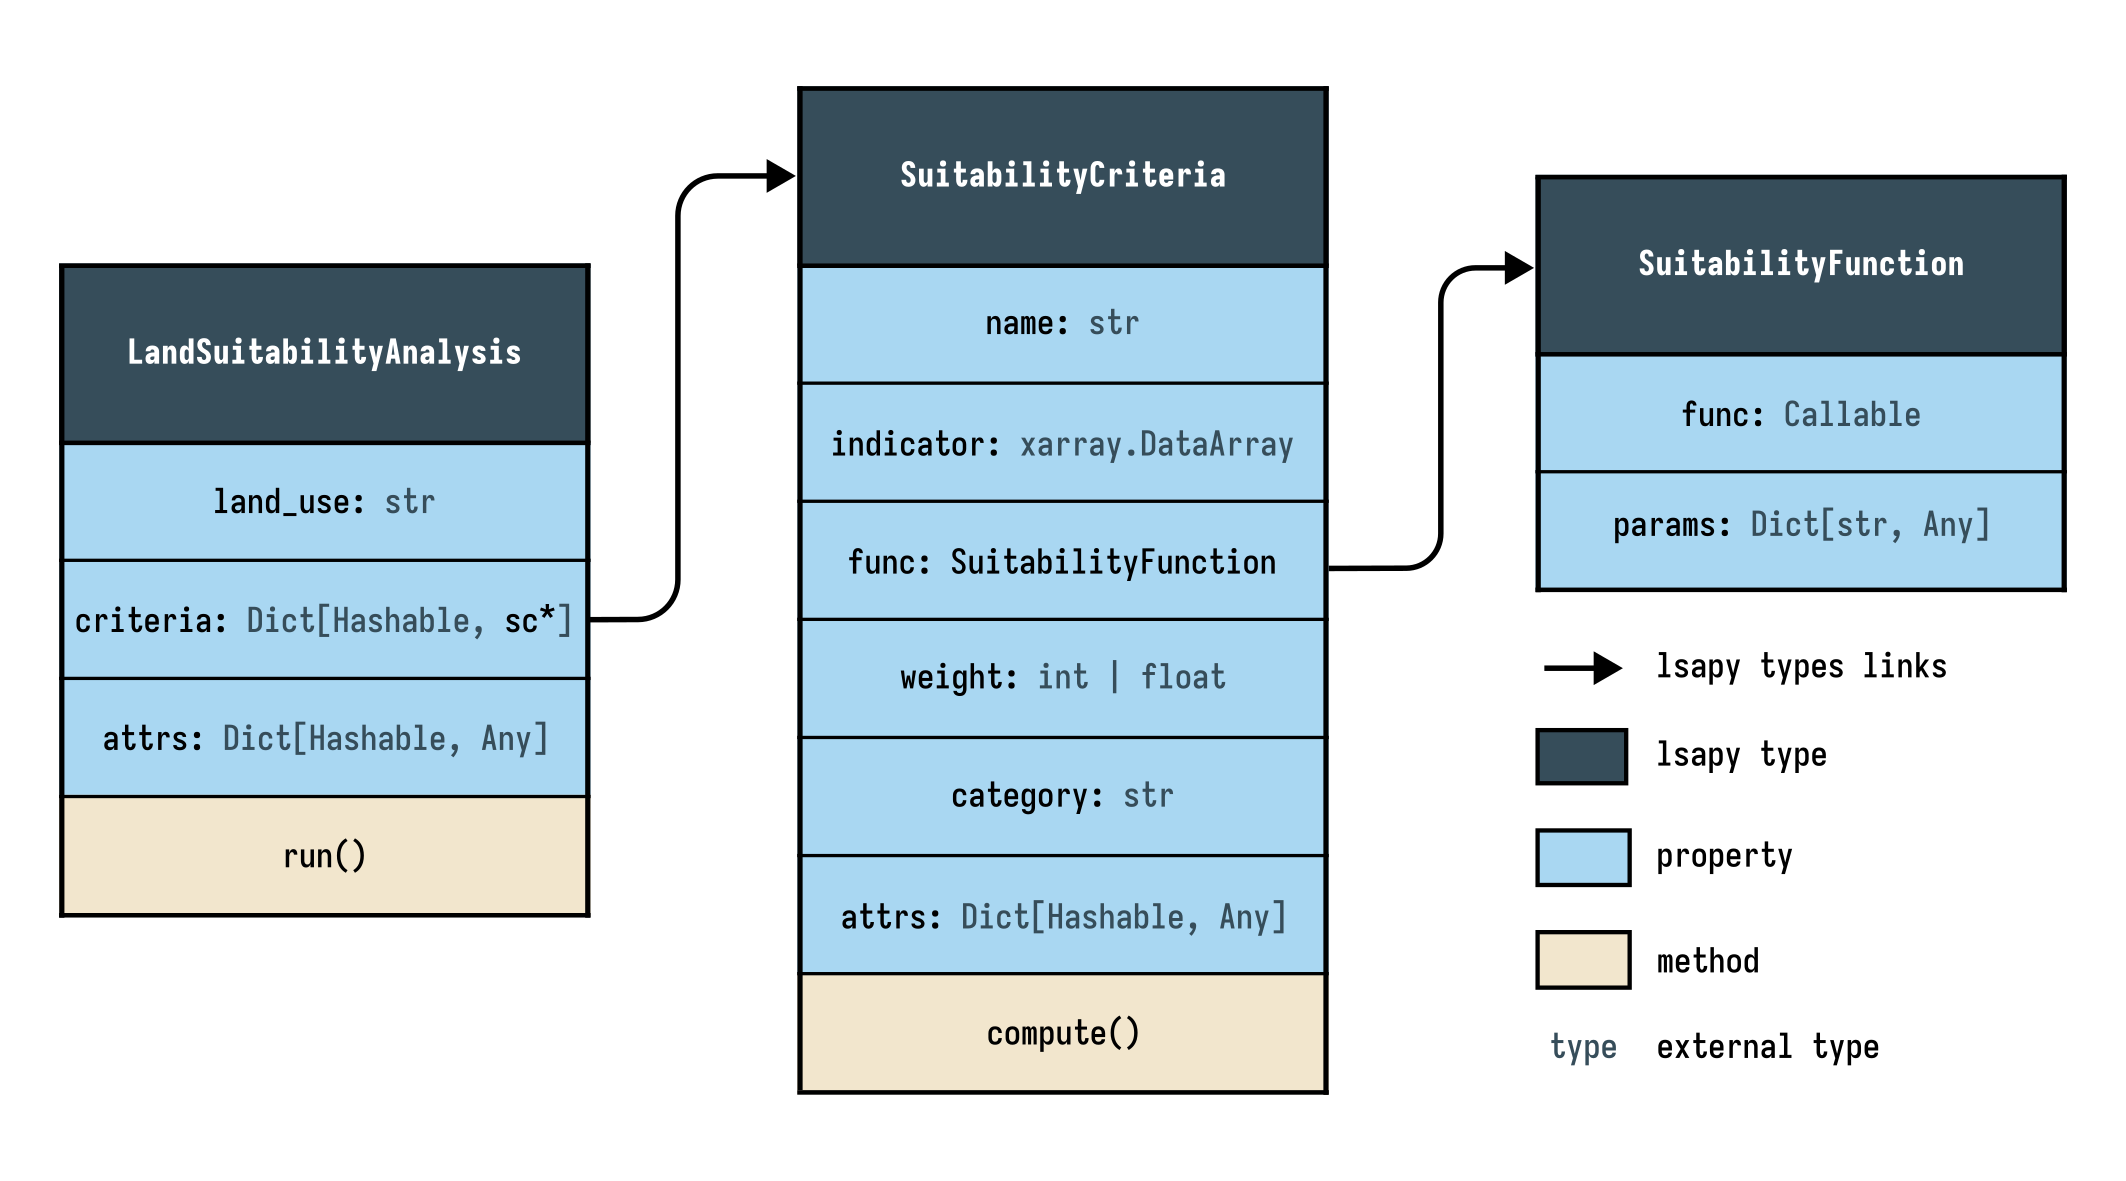
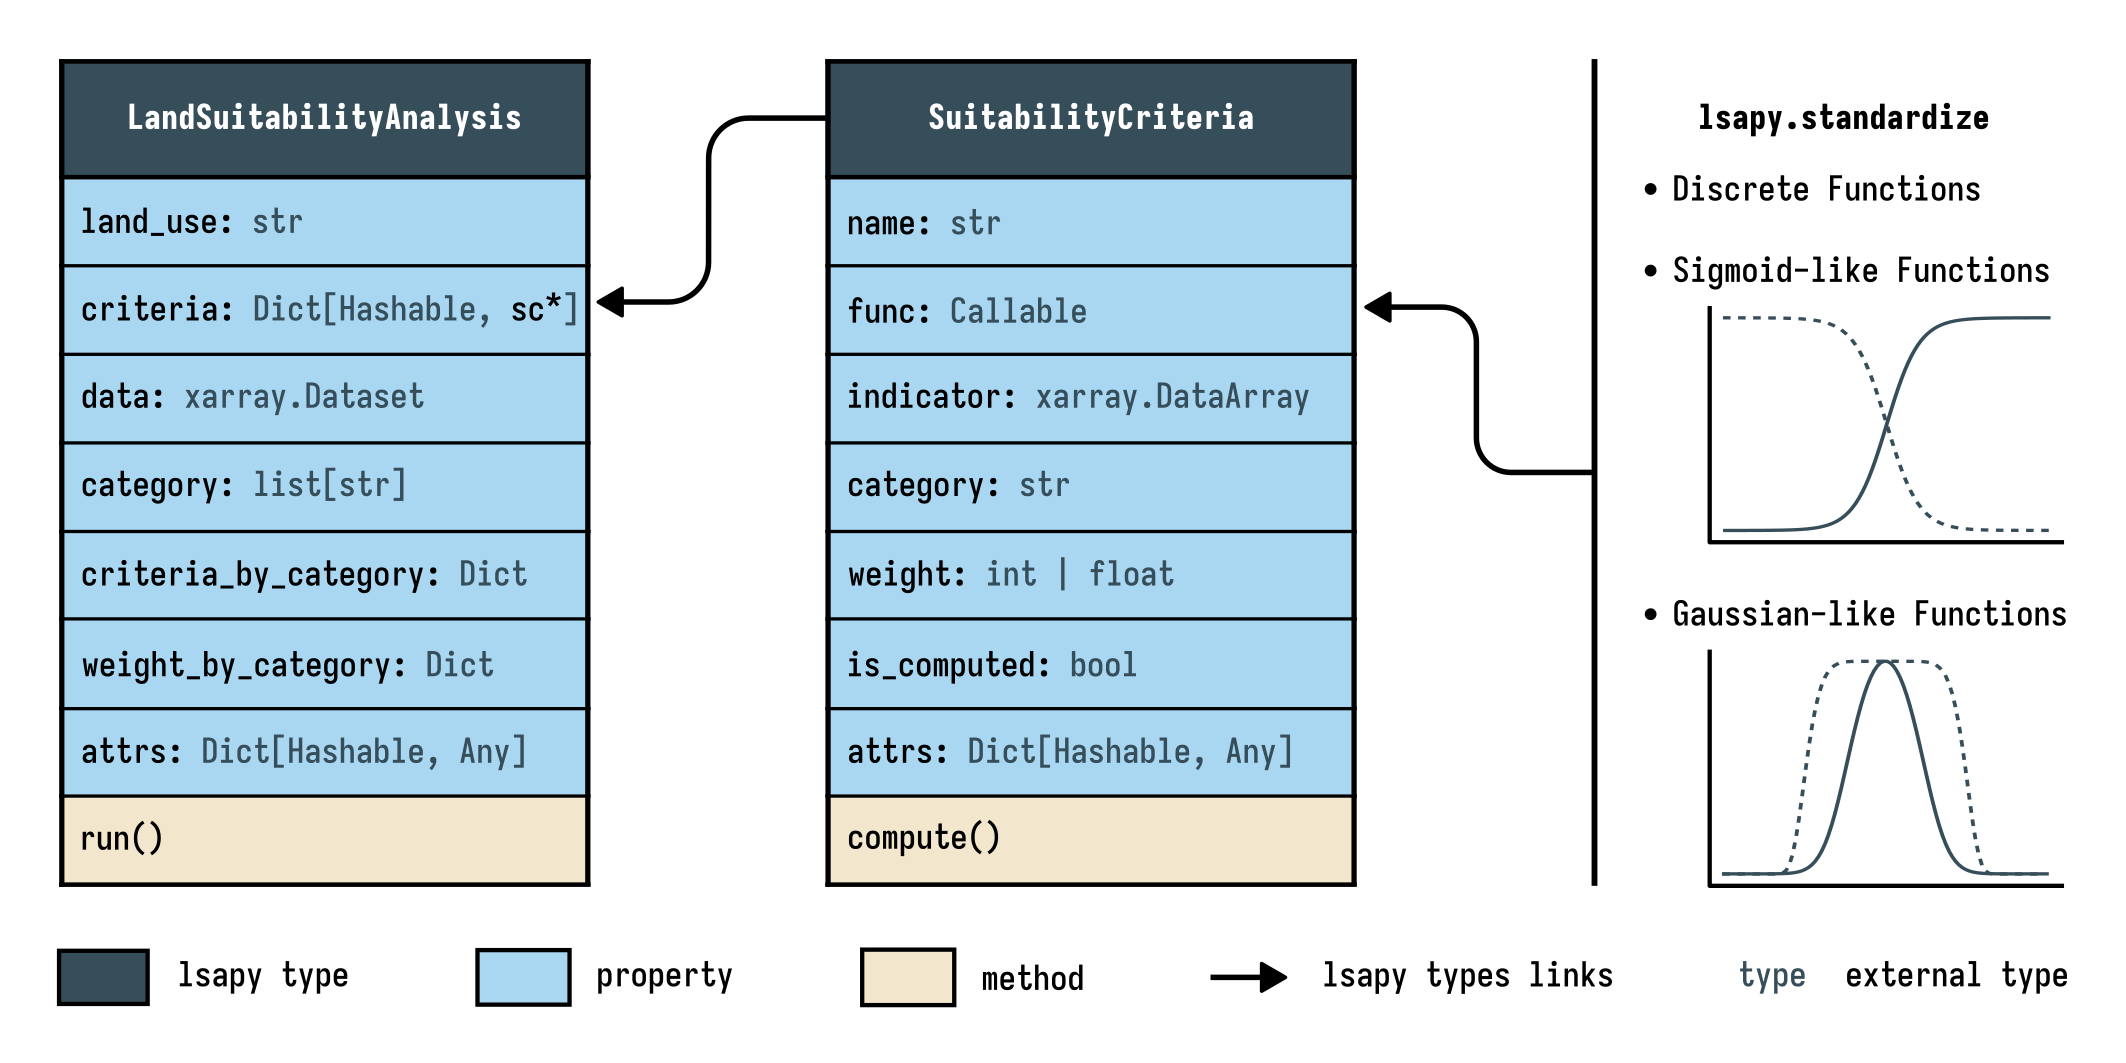
Update paper

diff --git a/docs/paper/paper.md b/docs/paper/paper.md
@@ -19,13 +19,13 @@ bibliography: paper.bib
 
 # Summary
 
-LSAPy is a highly customizable Python library designed to streamline and enhance Land Suitability Analysis (LSA) workflows. The package implements a fuzzy-logic approach and provides three core objects - `SuitabilityFunction`, `SuitabilityCriteria`, and `LandSuitabilityAnalysis` - that work together to deliver a flexible and user-defined LSA framework. By relying on `xarray` objects for computation [@hoyer2017], LSAPy seamlessly integrates with the broader Python ecosystem, such as `dask` for efficient parallel processing and `matplotlib` for data visualisation. Its modular design addresses some limitations of existing LSA tools by offering greater flexibility, reproducibility, and scalability for research and practical applications.
+LSAPy is a highly customizable Python library designed to streamline and enhance Land Suitability Analysis (LSA) workflows. The package implements a fuzzy-logic approach and provides two core objects - `SuitabilityCriteria` and `LandSuitabilityAnalysis` - and one module (`lsapy.standardize`) that work together to deliver a flexible and user-defined LSA framework. By relying on `xarray` objects for computation [@hoyer2017], LSAPy seamlessly integrates with the broader Python ecosystem, such as `dask` for efficient parallel processing and `matplotlib` for data visualisation. Its modular design addresses some limitations of existing LSA tools by offering greater flexibility, reproducibility, and scalability for research and practical applications.
 
 # Statement of need
 
 In the past decades, several software programs have been developed to perform land evaluation or suitability analysis, including ALES [@johnson1991], Micro-LEIS [@delarosa1992; @delarosa2004], LEIGIS [@kalogirou2002], ALSE [@elsheikh2013] and general-purpose GIS platforms such as ArcGIS and QGIS. While each of these tools offers distinct advantages, a limitation that often arises is the software-imposed constraints and the lack of freedom left to users [@elsheikh2013; @chen2022; @asaad2022]. These limitations manifest in several ways. Desktop GIS solutions, for example, often present challenges related to operating system dependency, the cost of proprietary software (e.g., ArcGIS), and difficulties in integration with broader analytical frameworks [@chen2022]. Furthermore, many specialised programs (e.g., Micro-LEIS, LEIGIS, ALSE) do not permit modification of the land characteristics used in the analysis [@elsheikh2013; @asaad2022]. This rigidity is problematic, as the predefined land characteristics may not apply to all crops or may require augmentation with additional parameters. Additionally, some tools (e.g., LEIGIS) support only a limited selection of crops for evaluation [@elsheikh2013].
 
-Recently, two libraries – ALUES [@asaad2022] and PyLUSAT [@chen2022] – have been developed to address some of these limitations. ALUES, an R package, supports the evaluation of 56 crops and allows the addition of new ones. While it addresses some of the limitations discussed above, it falls short in others. For example, it relies on fixed criteria grouped into three unmodifiable categories [@asaad2022]. PyLUSAT, a Python package, enables land suitability analysis using vector data, which offers specific advantages [@chen2022]. Nevertheless, raster-based approaches are generally more efficient for data combinations and complex calculations [@carr2007], particularly when integrating climate data, which is often distributed in netCDF format and best processed using raster routines. Converting such data to a vector format for analysis is technically feasible but suboptimal, leading to increased computational overhead and memory usage. Consequently, raster-based methods are essential for large-scale analyses, such as land suitability assessments using climate projections.
+Recently, two libraries – ALUES [@asaad2022] and PyLUSAT [@chen2022] – have been developed to address some of these limitations. ALUES, an R package, supports the evaluation of 56 crops and allows the addition of new ones. While it addresses some of the limitations discussed above, it falls short in others. For example, it relies on fixed criteria grouped into three unmodifiable categories [@asaad2022]. PyLUSAT, a Python package, enables land suitability analysis using vector data, which offers specific advantages [@chen2022]. Nevertheless, raster data model have been recognized as more appropriate for LSA applications because of its area-oriented structure [@malczewski2004]. Moreover, raster-based approaches are generally more efficient for data combinations and complex calculations [@carr2007], particularly when integrating climate data, which is often distributed in netCDF format and best processed using raster routines. Converting such data to a vector format for analysis is technically feasible but suboptimal, leading to increased computational overhead and memory usage. Consequently, raster-based methods are essential for large-scale analyses, such as land suitability assessments using climate projections.
 
 Beyond these technical constraints, the lack of user flexibility in existing software introduces further limitations. First, when programs offer a restricted set of functionalities, they hinder the reproducibility of scientific results. For instance, ALSE aggregates criteria suitability using the maximum limitation method [@elsheikh2013], whereas ALUES provides only minimum, maximum, and average aggregation options [@asaad2022]. This discrepancy renders the reproduction of cross-software results impossible. Second, tools designed for specific use cases (e.g., agriculture) limit broader adoption and, in the case of free and open-source software (FOSS), may impede community engagement and growth. Finally, rigid frameworks restrict the ability to explore edge cases or out-of-the-box analyses, which are increasingly important in a rapidly changing environment.
 
@@ -33,21 +33,22 @@ The limitations of existing software programs motivated the development of LSAPy
 
 # Land Suitability Analysis Workflow
 
-LSAPy provides three core objects that operate together to perform the land suitability analysis (LSA) according to user-defined frameworks (\autoref{fig:lsapy}).
+LSAPy provides two core objects and one module that operate together to perform the land suitability analysis (LSA) according to user-defined frameworks (\autoref{fig:lsapy}).
 
 ![Overview of LSAPy’s object structures and their associated properties and methods. *`sc` is used as an abbreviation of `SuitabilityCriteria`.\label{fig:lsapy}](lsapy.png)
 
-## Suitability Function
+## Standardize Module
 
-`SuitabilityFunction` is built around a function that transforms input data into suitability values (\autoref{fig:lsapy}). LSAPy includes built-in functions for both discrete and continuous data. For the latter, the package follows a fuzzy-logic approach, implementing Gaussian-like and sigmoid-like membership functions previously used in LSA studies. If the provided functions do not meet user requirements, custom functions can be defined.
+`lsapy.standardize` provides a set of standardization functions used to transforms input data into standardized scale of suitability values ranging from 0 to 1 (\autoref{fig:lsapy}). LSAPy includes built-in functions for both discrete and continuous data. For the latter, the package follows a fuzzy-logic approach, implementing sigmoid-like and Gaussian-like membership functions previously used in LSA studies.
 
 ## Suitability Criteria
 
-The `SuitabilityCriteria` defines an individual criteria used in LSA. Its `indicator` property refers to the input data, while `func` specifies the associated `SuitabilityFunction` (\autoref{fig:lsapy}). The `weight` and `category` properties allow users to customise how each criteria is aggregated with others in the analysis. The `compute()` method applies the `SuitabilityFunction` to the given `indicator` to calculate the suitability score.
+The `SuitabilityCriteria` defines an individual criteria used in LSA. Its `func` property refers to the standardization function, while `indicator` specifies the associated the input data (\autoref{fig:lsapy}). The `weight` and `category` properties allow users to customise how each criteria is aggregated with others in the analysis. `is_computed` indicates whether the indicator already corresponds to suitability values and does not need further computation.
+Finally, the `compute()` method applies the standardization function to the given `indicator` to calculate the suitability score.
 
 ## Land Suitability Analysis
 
-`LandSuitabilityAnalysis` is the top-level class in LSAPy, defining the LSA framework. All criteria for the analysis are stored in the `criteria` property (\autoref{fig:lsapy}). The `run()` method executes the LSA, with parameters specifying the level of suitability to compute (i.e., criteria, category, or overall land suitability) and the aggregation method to use. Currently, supported aggregation methods include median, mean, weighted mean, geometric mean, weighted geometric mean, and limiting factor.
+`LandSuitabilityAnalysis` is the top-level class in LSAPy, defining the LSA framework. All criteria for the analysis are stored in the `criteria` property (\autoref{fig:lsapy}). The `category`, `criteria_by_category` and `weights_by_category` properties are populated based on the defined criteria with the first one listing all unique categories, and the two latter their associated criteria and weights respectively.The `run()` method executes the LSA, with parameters specifying the level of suitability to compute (i.e., criteria, category, or overall land suitability) and the aggregation method to use. Currently, supported aggregation methods include median, mean, weighted mean, geometric mean, weighted geometric mean, and limiting factor.
 
 ## Additional Features
 
@@ -56,7 +57,7 @@ The `SuitabilityCriteria` defines an individual criteria used in LSA. Its `indic
 
 # Research Applications
 
-LSAPy has been used to assess the impact of climate change on apples, cherries, maize and wheat in New Zealand [@hamon2025a; @hamon2025c]. Additionally, ongoing research investigating the influence of land suitability analysis criteria on land use suitability also utilises LSAPy[@hamon2025b].
+LSAPy has been used to assess the impact of climate change on apples, cherries, maize and wheat in New Zealand [@hamon2025a; @hamon2025c], and is the core component of the New Zealand Land Use Suitability Database (NZLUSDB - [@hamon2025e]). Additionally, ongoing research investigating the influence of land suitability analysis criteria on land use suitability also utilises LSAPy[@hamon2025b].
 
 # Acknowledgements
 
